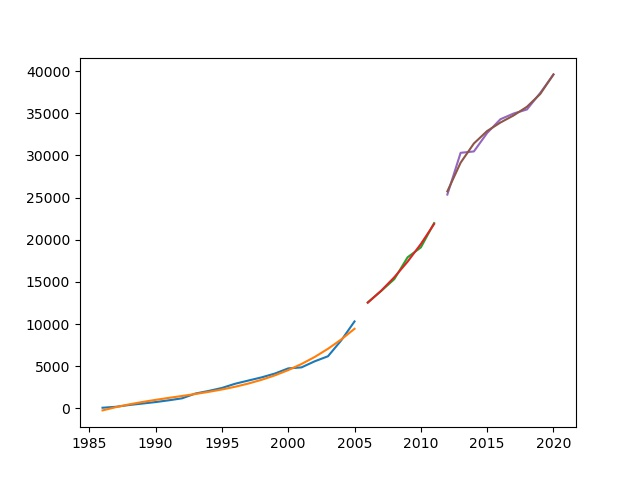
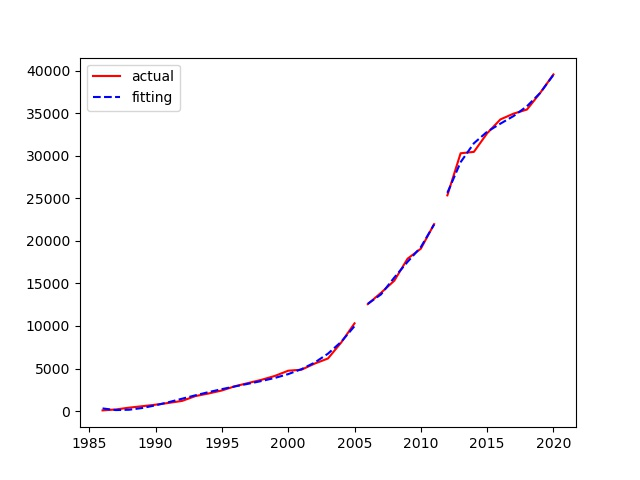
fix

diff --git a/model/sum/sum_partition.py b/model/sum/sum_partition.py
@@ -6,6 +6,7 @@ import os
 from model.pred import BASE_DIR
 import matplotlib
 import matplotlib.pyplot as plt
+import warnings
 # matplotlib.rcParams['font.sans-serif'] = ['Simsun']
 # matplotlib.rcParams['font.size'] = 11
 
@@ -100,6 +101,7 @@ def get_partition(input_sum, partition_num):
 
 
 def partition_fitting(partition, deg):
+    max_deg = 8
     x_list = []
     y_list = []
     for p in partition:
@@ -109,6 +111,16 @@ def partition_fitting(partition, deg):
     ##print(y_list)
     fitting_y_list = []
     for i in range(0, len(x_list)):
+        deg = 1
+        for deg in range(1, max_deg + 1):
+            with warnings.catch_warnings():
+                warnings.filterwarnings('error')
+                try:
+                    args = np.polyfit(x_list[i], y_list[i], deg=deg)
+                except np.RankWarning:
+                    break
+        deg -= 1
+        print(deg)
         args = np.polyfit(x_list[i], y_list[i], deg=deg)
         p = np.poly1d(args)
         fitting_y_list.append([p(x_list[i][j]) for j in range(0, len(x_list[i]))])
@@ -117,14 +129,16 @@ def partition_fitting(partition, deg):
     print(y_list)
     print(fitting_y_list)
     print("-----")
+
     return x_list, y_list, fitting_y_list
 
 
 def save_plot(data_name, x, y, fit_y):
     plt.figure()
     for i in range(0, len(x)):
-        plt.plot(x[i], y[i])
-        plt.plot(x[i], fit_y[i])
+        plt.plot(x[i], y[i], ls='-', color='r', label='actual')
+        plt.plot(x[i], fit_y[i], ls='--', color ='b',label='fitting')
+        plt.legend(['actual', 'fitting'])
     file_name = data_name +"_sum_fitting.jpeg"
     plt.savefig(file_name)
     return file_name

diff --git a/model/pred.py b/model/pred.py
@@ -87,6 +87,12 @@ def getResultWithParams_GM(origin_data,params):
     x = GMModel(nums=params['nums'], peak_rate=params['peak_rate'], option = params['option'])
     fileName, sheetName = getFileName(origin_data)
     data = GetDataFrame_dataset(fileName, sheetName, "ds", "y")
+    predict_data, predict_res, message = x.predict(data, params["years"])
+    if message:
+        return [item[1] for item in predict_res], None
+    else:
+        return [], "所选参数在计算时矩阵计算时会出现奇异矩阵，请重新选定参数"
+    '''
     try:
         predict_data, predict_res, message = x.predict(data, params["years"])
         if message:
@@ -95,6 +101,7 @@ def getResultWithParams_GM(origin_data,params):
             return [], "所选参数在计算时矩阵计算时会出现奇异矩阵，请重新选定参数"
     except:
         return [], "所选参数在计算时矩阵计算时会出现奇异矩阵，请重新选定参数"
+    '''
 
 ## 得到数据预处理的结果，方便前端进行数据分段
 ## 返回值：一个数组，按照年份排列，每个元素是[年份,产量]

diff --git a/model/myGM/util.py b/model/myGM/util.py
@@ -21,14 +21,14 @@ def predict(origin_data, nums, peak_rate, years, cut_idx = []):
         Nm_res[i] = Nm_res[i] * stat[0][1] + stat[0][0]
     '''
     res = []
-    start = origin_data[0][0]
+    start = int(origin_data[0][0])
     for i in range(0, len(cur_fit_input)):
         T_pred = Tm_res[i]##origin_model_input[i][1]######
         b_pred = b_res[i]
         N_pred = Nm_res[i]
-        interval_start = cur_fit_input[i][0][0]
+        interval_start = int(cur_fit_input[i][0][0])
         k = len(cur_fit_input[i])
-        interval_end = cur_fit_input[i][k-1][0]
+        interval_end = int(cur_fit_input[i][k-1][0])
         for j in range(interval_start, interval_end+1):
             temp = []
             temp.append(j)

diff --git a/backend/views.py b/backend/views.py
@@ -217,9 +217,12 @@ def getResultWithParams(request):
             obj["loss"] = get_loss(obj["dataset_yAxis"], obj["翁氏模型"])
         elif model=="灰度预测":
             obj["灰度预测"],msg = getResultWithParams_GM(dataset,params)
-            obj["loss"] = get_loss(obj["dataset_yAxis"], obj["灰度预测"])
+            print(obj["灰度预测"])
+            print(obj["dataset_yAxis"])
             if msg != None:
                 obj["msg"] = msg
+            else:
+                obj["loss"] = get_loss(obj["dataset_yAxis"], obj["灰度预测"])
 
         print("obj",obj)
         return JsonResponse(
